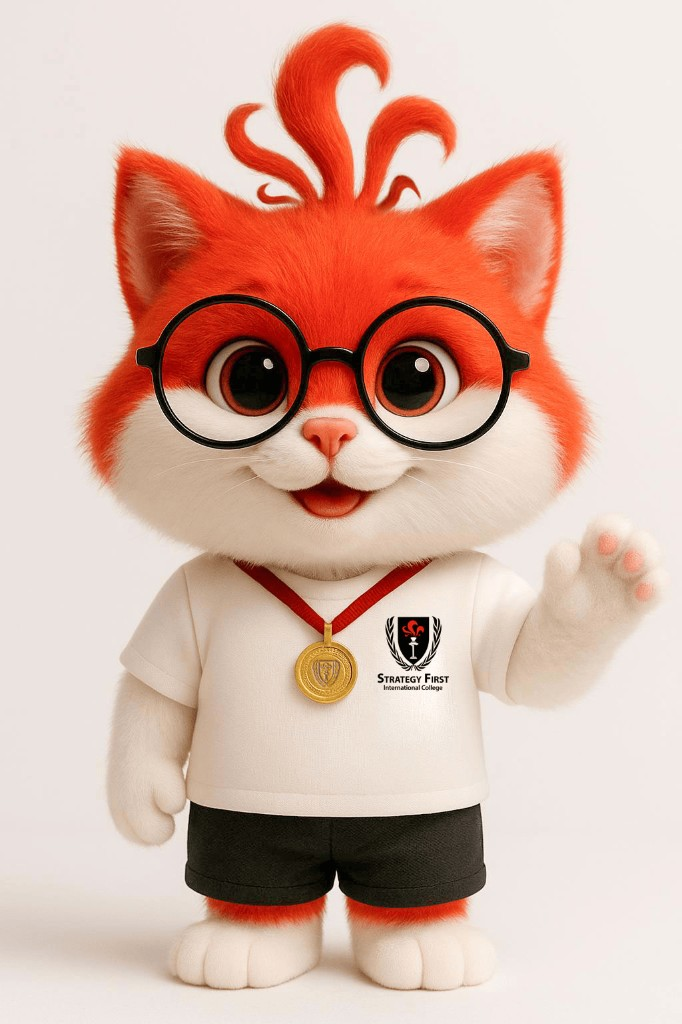
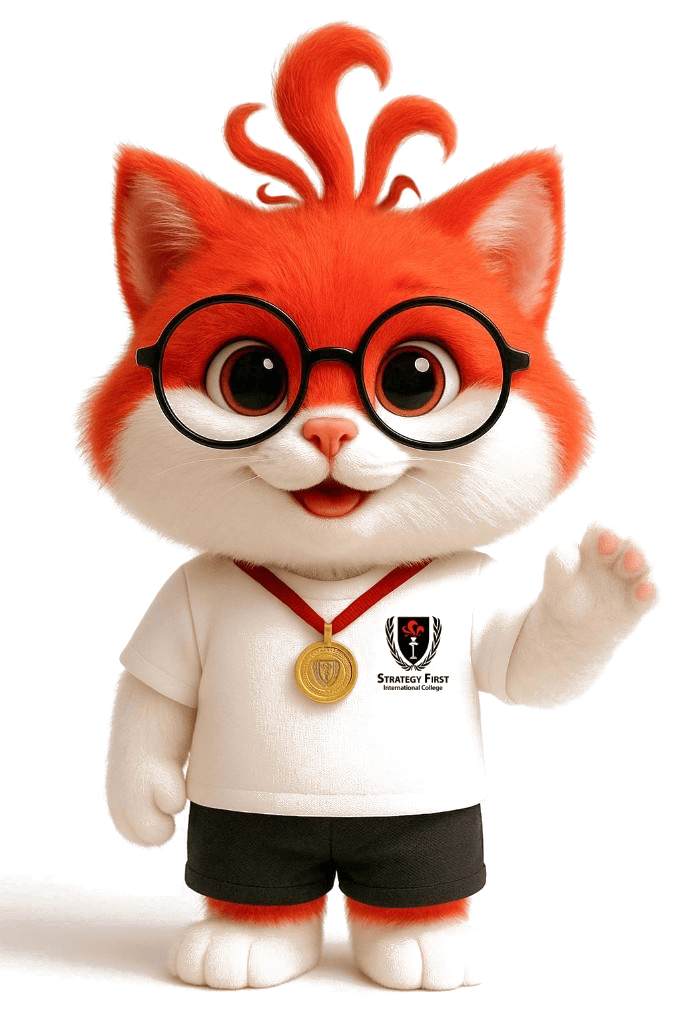
Improve mascot transparency and hand-wave animation.
Remove cream background from the mascot asset and layer body bob with shoulder-pivot wave motion for a more natural greeting.

diff --git a/src/components/animated/animated-mascot.tsx b/src/components/animated/animated-mascot.tsx
@@ -1,7 +1,7 @@
 "use client";
 
 import Image from "next/image";
-import { motion, type Variants } from "framer-motion";
+import { motion } from "framer-motion";
 import { cn } from "@/lib/utils";
 
 export type MascotPose = "wave" | "float" | "celebrate" | "think" | "sad" | "peek";
@@ -13,83 +13,9 @@ const sizeMap = {
   xl: { box: "h-64 w-64 sm:h-72 sm:w-72", img: 288 },
 };
 
-const poseVariants: Record<MascotPose, Variants> = {
-  wave: {
-    initial: { opacity: 0, scale: 0.9, y: 16 },
-    animate: {
-      opacity: 1,
-      scale: 1,
-      y: [0, -10, 0],
-      rotate: [0, -2, 2, 0],
-      transition: {
-        opacity: { duration: 0.4 },
-        scale: { type: "spring", stiffness: 260, damping: 20 },
-        y: { repeat: Infinity, duration: 3.2, ease: "easeInOut" },
-        rotate: { repeat: Infinity, duration: 2.8, ease: "easeInOut" },
-      },
-    },
-  },
-  float: {
-    initial: { opacity: 0, y: 12 },
-    animate: {
-      opacity: 1,
-      y: [0, -8, 0],
-      transition: {
-        opacity: { duration: 0.35 },
-        y: { repeat: Infinity, duration: 2.6, ease: "easeInOut" },
-      },
-    },
-  },
-  celebrate: {
-    initial: { opacity: 0, scale: 0.85 },
-    animate: {
-      opacity: 1,
-      scale: [1, 1.06, 1],
-      rotate: [0, -4, 4, 0],
-      y: [0, -12, 0],
-      transition: {
-        opacity: { duration: 0.35 },
-        scale: { repeat: Infinity, duration: 1.8, ease: "easeInOut" },
-        rotate: { repeat: Infinity, duration: 1.8, ease: "easeInOut" },
-        y: { repeat: Infinity, duration: 1.8, ease: "easeInOut" },
-      },
-    },
-  },
-  think: {
-    initial: { opacity: 0, x: 8 },
-    animate: {
-      opacity: 1,
-      x: 0,
-      rotate: [0, 2, -2, 0],
-      transition: {
-        opacity: { duration: 0.35 },
-        rotate: { repeat: Infinity, duration: 4, ease: "easeInOut" },
-      },
-    },
-  },
-  sad: {
-    initial: { opacity: 0, y: 8 },
-    animate: {
-      opacity: 1,
-      y: 0,
-      rotate: -4,
-      transition: { type: "spring", stiffness: 200, damping: 22 },
-    },
-  },
-  peek: {
-    initial: { opacity: 0, x: 40, scale: 0.95 },
-    animate: {
-      opacity: 1,
-      x: [0, 6, 0],
-      scale: 1,
-      transition: {
-        opacity: { duration: 0.4 },
-        x: { repeat: Infinity, duration: 3.5, ease: "easeInOut" },
-        scale: { type: "spring", stiffness: 280, damping: 22 },
-      },
-    },
-  },
-};
+/** Hand-wave keyframes — pivot near raised arm / shoulder */
+const WAVE_ROTATE = [0, 6, -4, 10, -7, 12, -8, 6, 0];
+const WAVE_TIMES = [0, 0.12, 0.24, 0.36, 0.48, 0.62, 0.76, 0.88, 1];
 
 type AnimatedMascotProps = {
   pose?: MascotPose;
@@ -107,31 +33,95 @@ export function AnimatedMascot({
   label = "Strategy First college mascot",
 }: AnimatedMascotProps) {
   const dims = sizeMap[size];
+  const isWaving = pose === "wave" || pose === "peek";
 
   return (
     <div className={cn("relative inline-flex flex-col items-center", className)}>
       <motion.div
-        variants={poseVariants[pose]}
-        initial="initial"
-        animate="animate"
+        initial={{ opacity: 0, scale: 0.92, y: 12 }}
+        animate={{ opacity: 1, scale: 1, y: 0 }}
+        transition={{ type: "spring", stiffness: 260, damping: 22 }}
         className={cn("relative", dims.box)}
       >
+        {/* Soft glow — no solid circle behind character */}
         <motion.span
-          className="absolute -inset-3 rounded-full bg-brand-red/15 blur-xl"
-          animate={{ opacity: [0.35, 0.55, 0.35], scale: [1, 1.05, 1] }}
-          transition={{ repeat: Infinity, duration: 2.5, ease: "easeInOut" }}
+          className="pointer-events-none absolute bottom-0 left-1/2 h-[18%] w-[55%] -translate-x-1/2 rounded-[100%] bg-brand-red/25 blur-2xl"
+          animate={{ opacity: [0.25, 0.45, 0.25], scaleX: [1, 1.08, 1] }}
+          transition={{ repeat: Infinity, duration: 2.8, ease: "easeInOut" }}
           aria-hidden
         />
-        <div className="relative h-full w-full drop-shadow-[0_12px_32px_rgba(210,35,42,0.25)]">
-          <Image
-            src="/brand/sfic-mascot.png"
-            alt={label}
-            width={dims.img}
-            height={dims.img}
-            priority={priority}
-            className="h-full w-full object-contain object-bottom"
-          />
-        </div>
+
+        {/* Body bob (feet stay grounded) */}
+        <motion.div
+          className="relative h-full w-full"
+          style={{ transformOrigin: "50% 92%" }}
+          animate={
+            pose === "sad"
+              ? { y: 0, rotate: -3 }
+              : {
+                  y: pose === "celebrate" ? [0, -14, -8, -12, 0] : [0, -5, 0],
+                  rotate:
+                    pose === "celebrate"
+                      ? [0, -2, 2, -2, 0]
+                      : pose === "think"
+                        ? [0, 1.5, -1.5, 0]
+                        : 0,
+                }
+          }
+          transition={{
+            repeat: pose === "sad" ? 0 : Infinity,
+            duration: pose === "celebrate" ? 1.4 : 2.6,
+            ease: "easeInOut",
+          }}
+        >
+          {/* Upper-body / arm wave */}
+          <motion.div
+            className="relative h-full w-full"
+            style={{
+              transformOrigin: isWaving ? "38% 72%" : "50% 88%",
+            }}
+            animate={
+              isWaving
+                ? pose === "peek"
+                  ? { x: [0, 4, 0], rotate: WAVE_ROTATE }
+                  : { rotate: WAVE_ROTATE }
+                : pose === "celebrate"
+                  ? { rotate: [0, -5, 5, -4, 0] }
+                  : {}
+            }
+            transition={
+              isWaving
+                ? {
+                    rotate: {
+                      repeat: Infinity,
+                      duration: 1.35,
+                      ease: "easeInOut",
+                      times: WAVE_TIMES,
+                    },
+                    x:
+                      pose === "peek"
+                        ? { repeat: Infinity, duration: 3, ease: "easeInOut" }
+                        : undefined,
+                  }
+                : pose === "celebrate"
+                  ? {
+                      repeat: Infinity,
+                      duration: 1.4,
+                      ease: "easeInOut",
+                    }
+                  : undefined
+            }
+          >
+            <Image
+              src="/brand/sfic-mascot.png"
+              alt={label}
+              width={dims.img}
+              height={dims.img}
+              priority={priority}
+              className="h-full w-full object-contain object-bottom drop-shadow-[0_8px_24px_rgba(0,0,0,0.45)]"
+            />
+          </motion.div>
+        </motion.div>
       </motion.div>
     </div>
   );